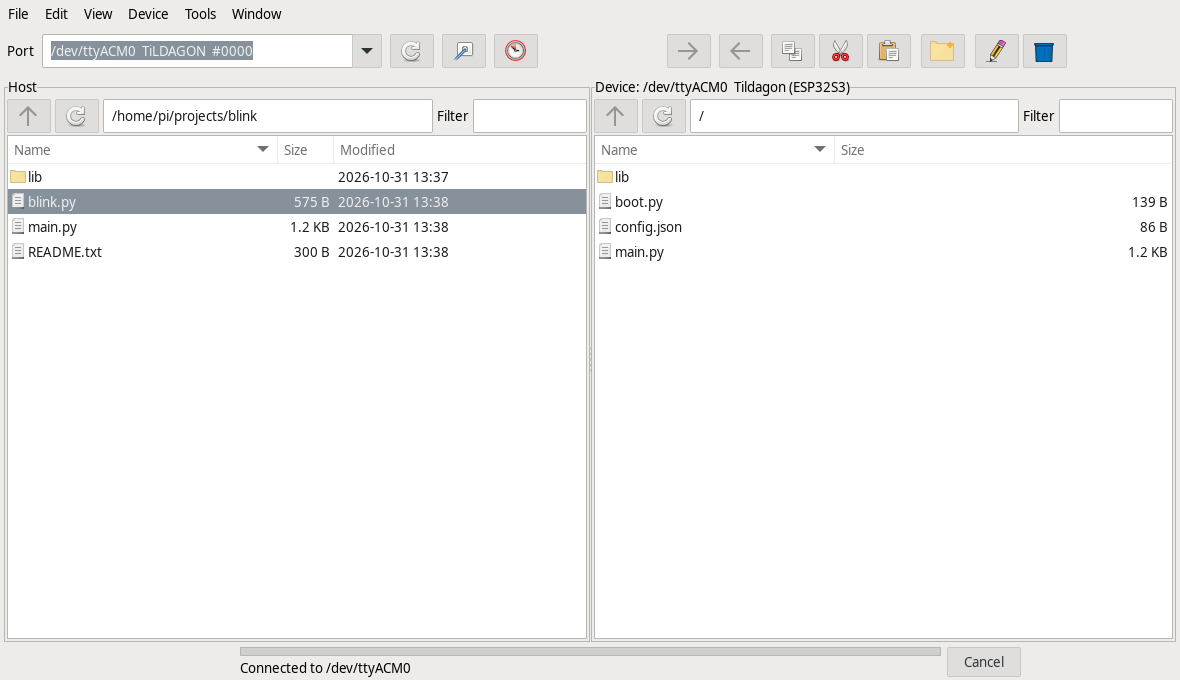
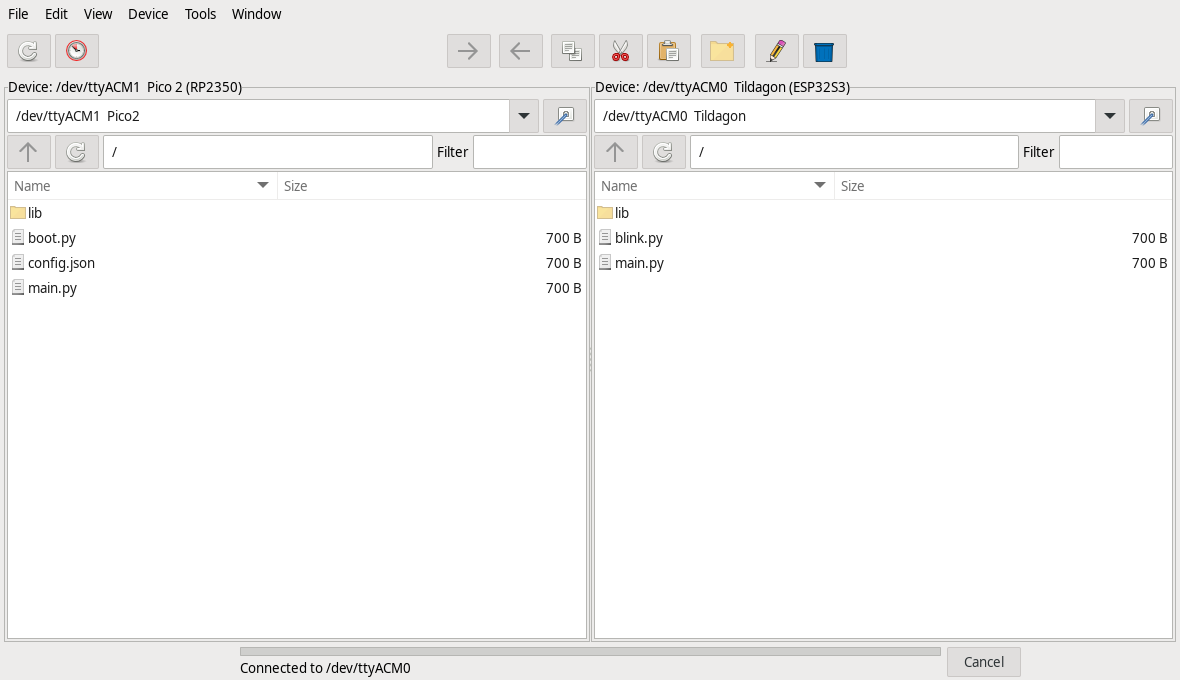
Docs: firmware tools, two boards side by side, and what was learned
Claude-Session: https://claude.ai/code/session_01SL1koZpQqisVF6ZZp2Ztzh

diff --git a/docs/HANDOFF.md b/docs/HANDOFF.md
@@ -1,8 +1,43 @@
 # Handoff / project memory
 
-Written so a new Claude session can take over with no other context. Update it as you work. Last updated at
-`main` = `f1791d8` (2026-10-30); CI green (Python 3.11/3.12/3.13, real MicroPython
-v1.26.0 and v1.28.0, and the `gui` job: GTK windows under xvfb).
+Written so a new Claude session can take over with no other context. Update it as you work. Last updated 2026-11-01, at
+`main` = `7555f6e` plus this docs update; CI green (Python 3.11/3.12/3.13, real MicroPython
+v1.26.0 and v1.28.0, and the `gui` job: GTK windows under xvfb). Older sections below are history and may be out of date.
+
+## Where we stopped (2026-11-01)
+Two big features went in on 2026-10-31 and 11-01. Plans, with what was tested: `docs/FIRMWARE_PLAN.md`, `docs/SIDE_BY_SIDE_PLAN.md`. Open items: `docs/TODO.md`.
+
+**Firmware tools (Tools menu).** `firmware.py`, `firmware_catalog.py`, `gtkui/firmware.py`.
+- **Install firmware:** from micropython.org (RP2040, RP2350, ESP32-S3 boards) or the EMF flasher sites (Tildagon, TiDAL), or a local file. The image is checked before writing. Erase first is an option.
+- **Back up or restore flash** and **Erase flash** are separate tools. The list names each device, with a details panel, and the message below gives that device's way to its bootloader.
+- **Start bootloader** appears for a running Pico and Tildagon.
+- esptool is an external need (`pipx install esptool`, version 5). A Pico needs nothing extra.
+- Run on real boards: Pico, Pico 2, Tildagon and 2022 badge backup, erase and restore, each compared with the original afterwards, from scripts using the tools' code. Clicked by the owner: install on all four, restore on a 2022 badge. Never run on real hardware: the 13 other ESP32-S3 boards listed.
+
+**Two boards side by side.** Each pane has its own list (Host, then the ports) and Connect. `App.conns` maps pane to `Connection` (`connection.py`). `App.device`/`board`/`session`/`badge` mean the active pane's board, else the only one. One worker thread still runs every job, so a long job on one board makes the other wait, and Cancel empties the queue for both.
+- A job says which boards it uses (`devices=`), so each badge's screen shows its own. A job that does not say tells no screen when two are connected.
+- Each board has its own console window. Firmware tools close only the board they use.
+- Copied files from a board being disconnected are downloaded to `~/.cache/mpexplorer/copied/` so they can be pasted on the next board; a cut becomes a copy then. Download and close are one job, because Cancel empties the queue.
+- Dragging onto a folder moves within a pane and copies across panes.
+- Boards are told apart by `machine.unique_id()` for remembered folders (`chip:<hex>`). RTS and the port list's model stay on the USB id, needed before a board can be read. Nothing is written to the board: an id file was considered and dropped.
+
+**Board facts learned.**
+- **Tildagon bootloader:** power off from the menu, hold boop while plugging in, keep holding a few seconds. The README in the badge repo (bat + boop for 20 s) did not apply.
+- **`machine.bootloader()`:** a Tildagon hangs until replugged when asked from the raw REPL, and obeys from the normal REPL, so badges use that; Picos use the raw REPL, which works. It does not work on the 2022 badge.
+- **After esptool:** `--after hard-reset` left a Tildagon in its ROM; `watchdog-reset` works. `--no-stub` fails if a stub is already running, so the chip read does not use it. `--before no-reset`, since the chip is already in its ROM.
+- **Reading a chip:** Tildagon `ESP32-S3-PICO-1`, 8 MB, 2 MB PSRAM; 2022 badge `ESP32-S3`, 8 MB embedded, no PSRAM (a commoner chip, so more breakouts can read the same). Two 2022 badges read the same.
+- **OTA data proves nothing after a write:** the image blanks it, and `main.py` at boot writes it back. Trust esptool's hash. This led to a wrong "nothing was written" report on 2026-10-31.
+- **A blank file area** boots on the Tildagon and answers on the REPL on a 2022 badge. `sponsors-vfs.bin` is not needed. The GitHub releases' `micropython.bin` is app-only: never for a fresh install.
+- **The firmware runs its frozen `main.py` first** (`pyexec_file_if_exists`), so a stray file of that name on a badge does not stop it booting.
+- **Board output cap:** see "Board output" below. No firmware fix planned: badge files are tiny on average.
+- **This firmware has no `display.get_framebuffer`**, so the badge's screen cannot be captured. `ctx.text_width` measures text: the round screen has about 161 px at y=80.
+
+**Lessons from these sessions.**
+- Check the ports before any script touches a board (`fuser`), and stop if the owner's app holds one. On 2026-11-01 a test ran on ports the app held, printed that they were busy, and copied a file to a badge anyway. Put the check and the stop in the command itself.
+- An app that is already open keeps its code. Compare its start time with the branch switch before believing a hand test of new code.
+- The clone is what the desktop shortcut runs, so develop in a worktree under the scratchpad, and switch the clone only when the owner asks.
+- `cancel_all` empties the queue, so a job that must not be lost cannot be queued behind a cancellable one.
+- A scratch venv installed with `pip install -e` follows the last path installed: reinstall it after moving between a worktree and the clone.
 
 **The Tk GUI was removed (2026-10-30).** `python -m mpexplorer` is GTK only and prints how to install PyGObject if
 it is missing. `AnsiScreen` (the Tk terminal's emulator) moved to `tests/ansiscreen.py` because the terminal-session tests use it; Tk's key

diff --git a/docs/FIRMWARE_PLAN.md b/docs/FIRMWARE_PLAN.md
@@ -1,6 +1,6 @@
 # Install firmware plan
 
-Status (2026-10-31): phase 1 built on branch `firmware-install` (`mpexplorer/firmware.py`, `tests/test_firmware.py`): tested against fake drives; `check_uf2` accepted the real v1.29.0 Pico, Pico 2 and Pico 2 RISC-V UF2s, `detect` found a real RP2040 Pico. Phase 2 built on the same branch: Tools > Install firmware... (`gtkui/firmware.py`, `tests/test_gui_firmware.py`), local UF2 files only; tested under Xvfb with fake drives and a stubbed install. It has no erase box and does not yet record installs in the settings. The owner installed v1.29.0 on an RP2040 Pico through the dialog on 2026-10-31 and reported that it worked and its files survived (Connect not itemised). The owner then installed a downloaded v1.29.0 build on a Pico 2 through the dialog (2026-10-31, reported working), so its bootloader was recognised as RP2350. Phase 3 built: `firmware_catalog.py` reads boards (`/download/?mcu=<chip>`) and builds from micropython.org, saves lists and files in `~/.cache/mpexplorer/firmware/`; the dialog offers exact boards for the found chip, with the newest plain release as default. Phase 4 code is on branch `firmware-tildagon`: `flash_esptool`, `check_esp_image`, ROM port detection and the Tildagon in the dialog, tested with a fake esptool only; On a real Tildagon (2026-10-31): ROM USB id `303a:1001` confirmed, esptool `flash-id` (8 MB, ESP32-S3-PICO-1) and a full `read-flash` worked. On 2026-10-31 `write-flash` through the dialog worked on that badge (hash verified, 10 s), but esptool's default "hard reset via RTS" left it in the ROM, so the dialog reported a failure. `--after watchdog-reset` restarted it when tried by hand with a read-only command; the dialog now uses it, and the owner confirmed a full install on the badge end to end (2026-10-31). The file area read back identical to the backup after the write, so files survive. Before offering anything for an ESP32-S3, the dialog reads the chip with `flash-id --no-stub`, and offers the Tildagon only for `ESP32-S3-PICO-1`, 8 MB flash, 2 MB PSRAM; other boards can use a file that fits their flash. A breakout with that same chip and memory still looks like a Tildagon, so the confirmation says so. The owner ran this on a real Tildagon (2026-10-31, it worked); not yet tried on a breakout. **OTA data proves nothing: the image blanks it, but the badge's `main.py` calls `mark_app_valid_cancel_rollback` at boot and it reads back as before. To see a write, trust esptool's hash or use an image that differs.** Phase 3 was checked against the live site (25 RP2040 and 13 RP2350 boards; v1.29.0 for Pico, Pico W, Pico 2 and Pico 2 W downloaded and passed `check_uf2`). Goal: from the app, put MicroPython on a board that has none, or has no working
+Status (2026-11-01): phases 1-5 are merged on `main`, and a separate backup, restore and erase were added; 5a covers ESP32-S3 boards only. History: phase 1 (`mpexplorer/firmware.py`, `tests/test_firmware.py`): tested against fake drives; `check_uf2` accepted the real v1.29.0 Pico, Pico 2 and Pico 2 RISC-V UF2s, `detect` found a real RP2040 Pico. Phase 2 built on the same branch: Tools > Install firmware... (`gtkui/firmware.py`, `tests/test_gui_firmware.py`), local UF2 files only; tested under Xvfb with fake drives and a stubbed install. It has no erase box and does not yet record installs in the settings. The owner installed v1.29.0 on an RP2040 Pico through the dialog on 2026-10-31 and reported that it worked and its files survived (Connect not itemised). The owner then installed a downloaded v1.29.0 build on a Pico 2 through the dialog (2026-10-31, reported working), so its bootloader was recognised as RP2350. Phase 3 built: `firmware_catalog.py` reads boards (`/download/?mcu=<chip>`) and builds from micropython.org, saves lists and files in `~/.cache/mpexplorer/firmware/`; the dialog offers exact boards for the found chip, with the newest plain release as default. Phase 4 code is on branch `firmware-tildagon`: `flash_esptool`, `check_esp_image`, ROM port detection and the Tildagon in the dialog, tested with a fake esptool only; On a real Tildagon (2026-10-31): ROM USB id `303a:1001` confirmed, esptool `flash-id` (8 MB, ESP32-S3-PICO-1) and a full `read-flash` worked. On 2026-10-31 `write-flash` through the dialog worked on that badge (hash verified, 10 s), but esptool's default "hard reset via RTS" left it in the ROM, so the dialog reported a failure. `--after watchdog-reset` restarted it when tried by hand with a read-only command; the dialog now uses it, and the owner confirmed a full install on the badge end to end (2026-10-31). The file area read back identical to the backup after the write, so files survive. Before offering anything for an ESP32-S3, the dialog reads the chip with `flash-id --no-stub`, and offers the Tildagon only for `ESP32-S3-PICO-1`, 8 MB flash, 2 MB PSRAM; other boards can use a file that fits their flash. A breakout with that same chip and memory still looks like a Tildagon, so the confirmation says so. The owner ran this on a real Tildagon (2026-10-31, it worked); not yet tried on a breakout. **OTA data proves nothing: the image blanks it, but the badge's `main.py` calls `mark_app_valid_cancel_rollback` at boot and it reads back as before. To see a write, trust esptool's hash or use an image that differs.** Phase 3 was checked against the live site (25 RP2040 and 13 RP2350 boards; v1.29.0 for Pico, Pico W, Pico 2 and Pico 2 W downloaded and passed `check_uf2`). Goal: from the app, put MicroPython on a board that has none, or has no working
 firmware, then connect to it.
 
 ## Scope

diff --git a/README.md b/README.md
@@ -2,21 +2,23 @@
 
 A dual-pane file explorer with a GUI for MicroPython boards (Raspberry Pi Pico / Pico 2, EMF Camp badges from 2022 (TiLDA Mk6), 2024
 (Tildagon) and 2026, anything that runs MicroPython). It runs on a **Raspberry Pi 5** (or any computer with Python 3 and GTK 3) and talks to the
-board over USB serial. **Nothing is installed on the board**: it works through the stock raw REPL, like `mpremote`.
+board over USB serial. **Nothing is installed on the board** in normal use: it works through the stock raw REPL, like `mpremote`.
 
 ![Main window: host and device panes](docs/images/main.png)
 
 ![REPL console](docs/images/console.png)
 
 ## Features
-- Host and Device panes: browse, sort, filter, show hidden files
-- Upload / download files and folders (buttons, drag between panes, or copy and paste). Dragging onto a folder in the same
-  pane moves into it
+- Two panes, each showing the host or a board, so two boards can be open side by side: browse, sort, filter, show hidden files
+- Copy files and folders between the panes (buttons, drag, or copy and paste). Dragging onto a folder copies into it, or moves
+  into it within one pane
 - Copy, cut, paste, rename, delete, new file / folder, properties, free space
-- Copy from one board and paste on another: copied files are downloaded when you disconnect, so a large copy takes
+- Copy from a board, disconnect it, and paste on another: the files are downloaded as you disconnect, so a large copy takes
   time then. A cut becomes a copy, because the first board has gone
+- **Install firmware, back up or restore the flash, and erase it** (Tools menu), for boards in their bootloader. Firmware comes from
+  micropython.org or the EMF flashers, or a file. A running Pico or Tildagon can be sent to its bootloader with a button
 - Conflict handling (overwrite / skip / keep both / apply to all), progress, speed and cancel
-- **REPL console** (Device > REPL console), emulated mode: run Python on the board, output streams as it arrives.
+- **REPL console** (Device > REPL console, one per board), emulated mode: run Python on the board, output streams as it arrives.
   `_` holds the last result, Ctrl+D soft-resets, Esc interrupts, Up/Down is history, Shift+Enter adds a line.
   `input()` works: while a program runs, Enter sends your line to it. **Show activity** displays every snippet
   sent to the board and every reply (file operations included), which is handy for debugging. While a command
@@ -39,7 +41,7 @@ sudo usermod -aG dialout $USER      # serial access; log out and in again
 pipx install --system-site-packages git+https://github.com/Corteil/mpexplorer
 mpexplorer
 ```
-Plug the board in, press **Scan**, pick the port, **Connect**.
+Plug the board in, press **Scan**, choose it in a pane's list, and press that pane's **Connect**.
 
 The Tools menu can install firmware, back up or restore the flash, and erase it. A badge or other ESP32-S3 needs
 `pipx install esptool`; a Pico or Pico 2 needs nothing extra.

diff --git a/docs/DESIGN.md b/docs/DESIGN.md
@@ -189,5 +189,19 @@ Size differs -> changed; same size -> compare SHA-256 (`Backend.checksum`, compu
 If a board has no `hashlib`, equal-size files are assumed identical and the plan says so. Deletes are always
 planned but only run when the user ticks "mirror". A file/folder type clash aborts planning rather than guessing.
 
+## Two boards
+A `Connection` (`connection.py`) holds one board's port, settings key, backend, console session, badge screen and console window. `App.conns`
+maps a pane to its connection, and a port can be open in one pane only. Backends do not care: `copy_tree` and Sync take any two.
+There is still one `JobRunner`, so every job runs in turn and no serial line is shared; the cost is that a long job on one board makes
+the other wait, and `cancel_all` affects both. Jobs name the boards they use with `devices=`, for the badge screens.
+
+Boards are keyed by `machine.unique_id()` (`chip:<hex>`) for remembered folders, since USB serials can be shared. Anything needed before a board
+can be read, RTS and the port list's model, stays under the USB id.
+
+## Firmware tools
+The one exception to installing nothing: they write only to a board in its bootloader, and only when the user starts them. The logic is in `firmware.py`
+and `firmware_catalog.py`, the three dialogs in `gtkui/firmware.py` on a shared `DeviceDialog`. A UF2 drive is written by copying (erase: Raspberry Pi's `flash_nuke.uf2`);
+an ESP32-S3 by esptool as a subprocess; a running RP2 board is backed up over the raw REPL with a checksum per piece, as a UF2 Install accepts. See `docs/FIRMWARE_PLAN.md`.
+
 ## Later
 Persistent connection profiles; agent mode if measured speed demands it.

diff --git a/docs/TODO.md b/docs/TODO.md
@@ -98,7 +98,8 @@ label if one is missing on another theme.
 - [x] Each pane remembers what its list had chosen; nothing connects by itself.
 - [x] Phase 4: badge screens per job, firmware tools close only their board, Sync between boards (fake boards).
 - [x] Badge status line fits the round screen (text widths measured on a real Tildagon).
-- [ ] Phase 5: docs.
+- [x] Phase 5: docs.
+- [ ] By hand: badge screen shows Copying and Done with two boards and no longer clips; firmware tools close only their board; Sync dialog between boards.
 
 ## 2c. Agent mode (plan: `docs/AGENT_PLAN.md`)
 - [x] `tools/bench.py` written and tested (fake board + real MicroPython).
@@ -117,7 +118,7 @@ label if one is missing on another theme.
 ## 3. Release and housekeeping
 - [ ] Tag `v0.1.0` to exercise `release.yml`, then merge Dependabot PR #2 (`softprops/action-gh-release` v3).
 - [x] Screenshots in the README (main window, console; 2026-10-31, rendered against the fake board, path boxes set by hand for the picture).
-- [ ] Terminal mode screenshot in the README.
+- [ ] Terminal mode screenshot in the README. (Main window screenshot redone for side-by-side, 2026-11-01.)
 - [ ] Owner to decide: delete the leftover GitHub branches (`claude/micropython-file-explorer-gui-7tsgfy`, `handoff-pi`, `wire-settings` have nothing unmerged; `todo-refresh` has one older TODO commit).
 - [ ] Optional: add `mpexplorer.desktop` and the icon to the repo with an install note, instead of README text only.
 

diff --git a/CLAUDE.md b/CLAUDE.md
@@ -39,6 +39,7 @@ Python >= 3.11, line length 120, ruff rules E/F/W only, no type-annotation churn
 - Keep logic out of the GUI code; put it in the GUI-free modules and test it with the fake board.
 - Never claim the GUI or any hardware path works beyond what `docs/HANDOFF.md` lists as verified. Say what was
   verified (tests/CI, or by hand on which board) and what was not.
+- Before a script touches a board, check its port is free (`fuser`) and stop if it is held: the owner's app may be connected. Develop in a worktree, since the desktop shortcut runs the clone's checkout.
 - Serial: keep DTR asserted and RTS low in `RawREPL.open()` (Tildagon corrupts long replies with DTR low). Never kill
   a connected GUI with `pkill`/SIGKILL: it leaves the badge in raw REPL with a frozen screen (Ctrl-B, Ctrl-D recovers).
 - Behaviour that differs between the fake board and real MicroPython: fix the code, or the fake if the fake is wrong.

diff --git a/docs/SIDE_BY_SIDE_PLAN.md b/docs/SIDE_BY_SIDE_PLAN.md
@@ -1,6 +1,6 @@
 # Side-by-side boards plan
 
-Status (2026-11-01): plan only, nothing built. Goal: either pane can show the host or a board, so two boards can be connected
+Status (2026-11-01): phases 1-5 built and merged, see `docs/TODO.md` for hand tests still open. Goal: either pane can show the host or a board, so two boards can be connected
 at once and files copied straight between them. Each board is told apart by its chip id, whatever its USB serial says.
 
 ## Telling boards apart: the chip id (decided by the owner, 2026-11-01)
